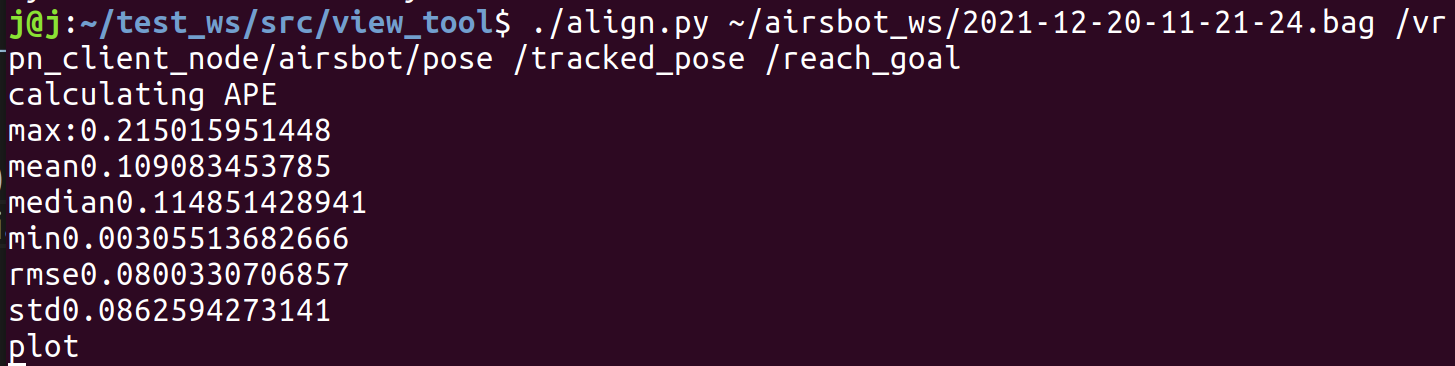
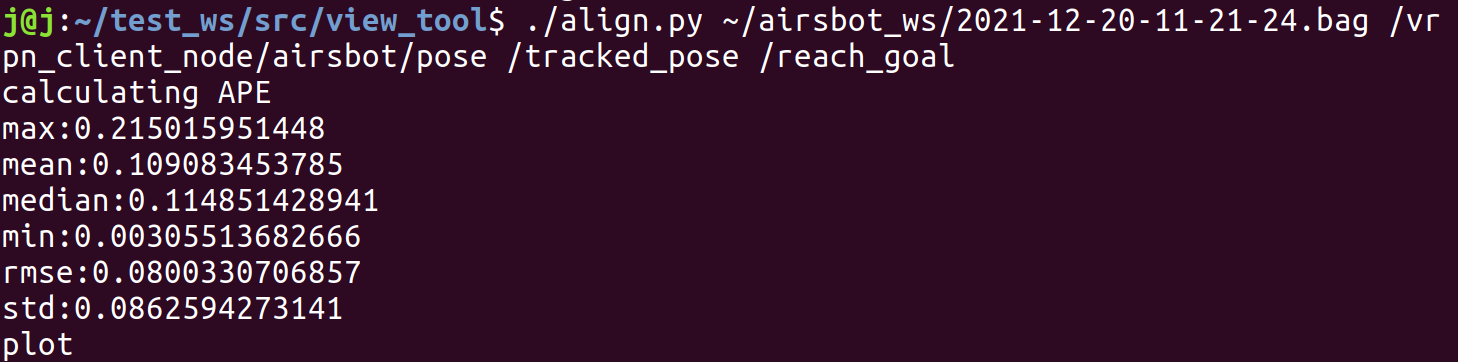
modify print

Changed region(s): [[0.0, 0.0, 1.0, 0.4862], [0.0, 0.5166, 0.2784, 0.8812], [0.0, 0.9116, 0.0619, 1.0]]

diff --git a/align.py b/align.py
@@ -167,11 +167,11 @@ if __name__=="__main__":
         goal_dis_rmse =np.sqrt((goal_diff_arr ** 2).mean())
 
         print("max:"+ str(goal_dis_max))
-        print("mean"+str(goal_dis_mean))
-        print("median"+str(goal_dis_median))
-        print("min"+str(goal_dis_min))
-        print("rmse"+str(goal_dis_rmse))
-        print("std"+str(goal_dis_std))
+        print("mean:"+str(goal_dis_mean))
+        print("median:"+str(goal_dis_median))
+        print("min:"+str(goal_dis_min))
+        print("rmse:"+str(goal_dis_rmse))
+        print("std:"+str(goal_dis_std))
 
         #plot
         print("plot")
